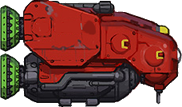
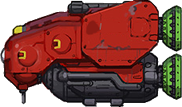
caças tambem em jogo// limites superior e inferior

diff --git a/Morkians/app/src/main/java/com/example/casa/TheMorkians/GameScene.java b/Morkians/app/src/main/java/com/example/casa/TheMorkians/GameScene.java
@@ -33,6 +33,7 @@ public class GameScene extends BaseScene{
     private ArrayList<Enemy> enemyList;
     private Enemy kamikazeEnemy;
     private Enemy bomberEnemy;
+    private Enemy heavyBomberEnemy;
 
     private void addToScore(int i)
     {
@@ -48,6 +49,7 @@ public class GameScene extends BaseScene{
         createControls();
         addEnemyHandler();
         addBomberEnemyHandler();
+        addHeavyBomberEnemyHandler();
     }
 
     @Override
@@ -161,13 +163,36 @@ public class GameScene extends BaseScene{
         bomberEnemy.registerUpdateHandler(enemyPhysicsHandler);
 
         int duration = enemyRandom.nextInt(4) + 2;
-        int velocity=15;
+        int velocity=12;
 
         MoveXModifier moveXModifier = new MoveXModifier(duration*velocity,
                 bomberEnemy.getX(), -bomberEnemy.getWidth());
         bomberEnemy.registerEntityModifier(moveXModifier);
 
         attachChild(bomberEnemy);
+
+
+    }
+
+    private void createNewHeavyBomberEnemy()
+    {
+        Random enemyRandom= new Random();
+        int x = (int)(camera.getCenterX()+ camera.getWidth()/2 + resourcesManager.gameHeavyBomberRegion.getWidth());
+        int y = enemyRandom.nextInt((int)(camera.getHeight() - resourcesManager.gameHeavyBomberRegion.getHeight()));
+
+        heavyBomberEnemy=new Enemy(x,y,resourcesManager.gameHeavyBomberRegion,vbom);
+        heavyBomberEnemy.setScale(0.5f);
+        PhysicsHandler enemyPhysicsHandler = new PhysicsHandler(heavyBomberEnemy);
+        heavyBomberEnemy.registerUpdateHandler(enemyPhysicsHandler);
+
+        int duration = enemyRandom.nextInt(6) + 2;
+        int velocity=17;
+
+        MoveXModifier moveXModifier = new MoveXModifier(duration*velocity,
+                heavyBomberEnemy.getX(), -heavyBomberEnemy.getWidth());
+        heavyBomberEnemy.registerEntityModifier(moveXModifier);
+
+        attachChild(heavyBomberEnemy);
 
 
     }
@@ -192,6 +217,18 @@ public class GameScene extends BaseScene{
                     @Override
                     public void onTimePassed(TimerHandler pTimerHandler) {
                         createNewBomberEnemy();
+                    }
+                });
+        registerUpdateHandler(timerHandler);
+
+    }
+    private void addHeavyBomberEnemyHandler()
+    {
+        TimerHandler timerHandler = new TimerHandler(6, true,
+                new ITimerCallback() {
+                    @Override
+                    public void onTimePassed(TimerHandler pTimerHandler) {
+                        createNewHeavyBomberEnemy();
                     }
                 });
         registerUpdateHandler(timerHandler);
